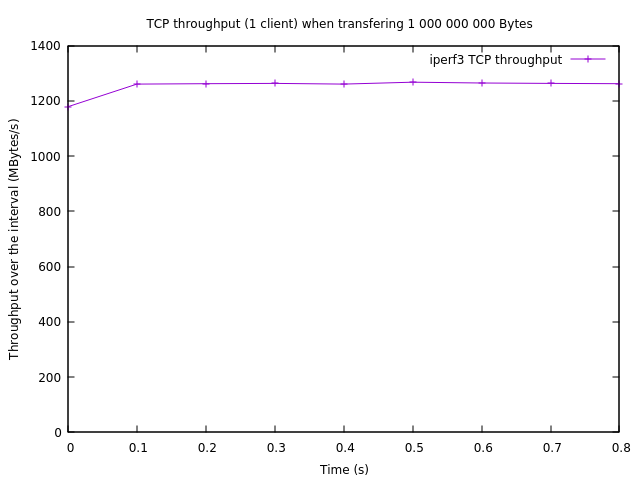
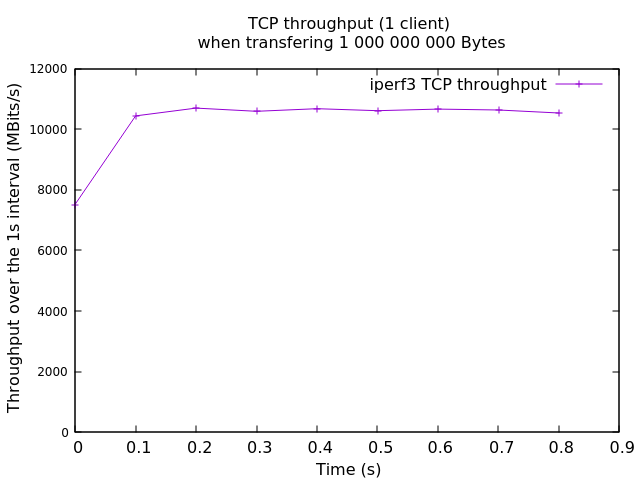
TCP throughput

diff --git a/diss.tex b/diss.tex
@@ -1900,15 +1900,15 @@ In addition, here 1~Gbyte = 1000~MBytes = 1~000~000~KBytes = 1~000~000~000~Bytes
 \begin{table}[H]
 \begin{tabular}{|r|r|r|r|r|r|}
 \hline
-\multicolumn{1}{|c|}{\begin{tabular}[c]{@{}c@{}}Requested \\ file size \\ (MBytes)\end{tabular}} & \multicolumn{1}{c|}{\begin{tabular}[c]{@{}c@{}}Number of \\ parallel \\ clients \\ (1 request \\ per client)\end{tabular}} & \multicolumn{1}{c|}{\begin{tabular}[c]{@{}c@{}}Average\\ total \\ throughput \\ measured \\ on the \\ receiver's \\ side (MBit/s)\end{tabular}} & \multicolumn{1}{c|}{\begin{tabular}[c]{@{}c@{}}Standard \\ deviation \\ of the \\ throughput \\ sample \\ (MBit/s)\end{tabular}} & \multicolumn{1}{c|}{\begin{tabular}[c]{@{}c@{}}Average \\ total \\ completion \\ time (ms)\end{tabular}} & \multicolumn{1}{c|}{\begin{tabular}[c]{@{}c@{}}Standard \\ deviation \\ of the\\ completion \\ time \\ sample (ms)\end{tabular}} \\ \hline
-1                                                                                                & 1                                                                                                                          & 2524.38                                                                                                                                         & 874.14                                                                                                                           & 2.53                                                                                                     & 1.16                                                                                                                             \\ \hline
-1                                                                                                & 10                                                                                                                         & 3128.63                                                                                                                                         & 242.04                                                                                                                           & 1.97                                                                                                     & 0.20                                                                                                                             \\ \hline
-10                                                                                               & 1                                                                                                                          & 3444.30                                                                                                                                         & 1571.61                                                                                                                         & 25.19                                                                                                    & 11.12                                                                                                                            \\ \hline
-10                                                                                               & 10                                                                                                                         & 7032.84                                                                                                                                         & 380.54                                                                                                                           & 12.49                                                                                                    & 0.95                                                                                                                             \\ \hline
-100                                                                                              & 1                                                                                                                          & 7609.97                                                                                                                                         & 908.55                                                                                                                           & 102.18                                                                                                   & 12.68                                                                                                                            \\ \hline
-100                                                                                              & 10                                                                                                                         & 8679.42                                                                                                                                         & 150.11                                                                                                                           & 92.53                                                                                                    & 1.46                                                                                                                             \\ \hline
-1000                                                                                             & 1                                                                                                                          & 9284.86                                                                                                                                         & 51.46                                                                                                                            & 856.53                                                                                                   & 5.05                                                                                                                             \\ \hline
-1000                                                                                             & 10                                                                                                                         & 9355.52                                                                                                                                         & 24.28                                                                                                                            & 855.32                                                                                                   & 2.05                                                                                                                             \\ \hline
+\multicolumn{1}{|c|}{\begin{tabular}[c]{@{}c@{}}Requested\\ file size \\ (Mbytes)\end{tabular}} & \multicolumn{1}{c|}{\begin{tabular}[c]{@{}c@{}}Number of\\ parallel \\ clients\\ (1 request\\ per client)\end{tabular}} & \multicolumn{1}{c|}{\begin{tabular}[c]{@{}c@{}}Average\\ total\\ throughput\\ measured\\ on the\\ receiver's\\ side (Mbit/s)\end{tabular}} & \multicolumn{1}{c|}{\begin{tabular}[c]{@{}c@{}}Standard \\ deviation\\ of the\\ throughput\\ sample\\ \\ side (Mbit/s)\end{tabular}} & \multicolumn{1}{c|}{\begin{tabular}[c]{@{}c@{}}Average\\ total\\ completion\\ time (ms)\end{tabular}} & \multicolumn{1}{c|}{\begin{tabular}[c]{@{}c@{}}Standard \\ deviation\\ of thecompletion\\ timesample\\ side (Mbit/s)\end{tabular}} \\ \hline
+1                                                                                               & 1                                                                                                                       & 2245.32                                                                                                                                    & 300.09                                                                                                                               & 2.45                                                                                                  & 0.26                                                                                                                               \\ \hline
+1                                                                                               & 10                                                                                                                      & 3376.85                                                                                                                                    & 192.65                                                                                                                               & 1.94                                                                                                  & 0.28                                                                                                                               \\ \hline
+10                                                                                              & 1                                                                                                                       & 4220.89                                                                                                                                    & 1364.76                                                                                                                              & 19.55                                                                                                 & 10.02                                                                                                                              \\ \hline
+10                                                                                              & 10                                                                                                                      & 7083.99                                                                                                                                    & 383.66                                                                                                                               & 12.76                                                                                                 & 0.76                                                                                                                               \\ \hline
+100                                                                                             & 1                                                                                                                       & 7391.08                                                                                                                                    & 1137.97                                                                                                                              & 108.94                                                                                                & 19.14                                                                                                                              \\ \hline
+100                                                                                             & 10                                                                                                                      & 8865.56                                                                                                                                    & 114.44                                                                                                                               & 90.53                                                                                                 & 1.18                                                                                                                               \\ \hline
+1000                                                                                            & 1                                                                                                                       & 8972.90                                                                                                                                    & 390.40                                                                                                                               & 892.71                                                                                                & 39.87                                                                                                                              \\ \hline
+1000                                                                                            & 10                                                                                                                      & 8972.47                                                                                                                                    & 443.07                                                                                                                               & 892.33                                                                                                & 44.76                                                                                                                              \\ \hline
 \end{tabular}
     \centering
     \caption[Impact of parallel streams for \texttt{TCP} throughput]{Impact of parallel streams for \texttt{TCP} throughput. Here packets travel via an intermediate machine.}
@@ -1921,22 +1921,17 @@ In addition, here 1~Gbyte = 1000~MBytes = 1~000~000~KBytes = 1~000~000~000~Bytes
 Table~\ref{fig:TCP_throughput_via_B_using_parallel_streams} shows the effect of increased transferred file size for the throughput of \texttt{TCP}.
 Naturally, it takes less time to transfer a small file than the large one.
 However, this means that \texttt{TCP} spends most of the time in the \enquote{slow start} phase when sending small files because their transfer time is shorter than the duration of the \enquote{slow start}.
-As a result, \texttt{TCP}'s throughput when sending small files is low.
-In contrast, transferring larger files allows \texttt{TCP} to discover the maximum sustainable network capacity.
-Thus, the \texttt{TCP} throughput is noticeably larger when sending larger files. 
-In addition, the transfer of large files allows \texttt{TCP} to amortise the overhead of initial \texttt{TCP} handshake.
-Hence, when sending 1GByte of data, \texttt{TCP} was able to approach the maximum link capacity that was 10~Gbits/s.
-
+As a result, reported \texttt{TCP}'s throughput when sending small files was low.
+In contrast, transferring larger files allowed \texttt{TCP} to discover the maximum sustainable network capacity and thus increase the total throughput.
+In addition, the transfer of large files allowed \texttt{TCP} to amortise the overhead of initial \texttt{TCP} handshake.
+Hence, when sending 1~GByte of data, \texttt{TCP} was able to approach the maximum link capacity that was 10~Gbits/s.
 
 \enquote{Slow start} effect is partially visible in Figure~\ref{fig:TCP_throughput_in_time} that illustrates \texttt{TCP} throughput in time.
-
-
-\simon{First 4 rows of the table - there are 4 different experiments with different throughputs (differ by at least the factor of 2), and the average completion time of all of them was around 10ms. Hence, this example demonstrates that iperf3 does not have sufficient resolution to capture and visualise the effect of a slow start. }
+However, resolution of this diagram is limited by the \texttt{iperf3} resolution, which is 0.1 s.
 
 % TODO
 \simon{TODO: comparison of TCP vs UDP}
 
-\simon{According to https://support.cumulusnetworks.com/hc/en-us/articles/216509388-Throughput-Testing-and-Troubleshooting, TCP might have better offloading support than UDP, meaning that their throughputs may not be comparable}
 
     \begin{figure}[H]
     \centering
@@ -1948,7 +1943,7 @@ Hence, when sending 1GByte of data, \texttt{TCP} was able to approach the maximu
     
     
     
-\simon{Why did iperf3 report lower throughput for UDP? According to \url{https://fuchsia.googlesource.com/third_party/iperf/+/3.0.2/README.md}, iperf3 might not be the best tool for high UDP throughput measurements. The source recommends using another tool nuttcp instead }
+%\simon{Why did iperf3 report lower throughput for UDP? According to \url{https://fuchsia.googlesource.com/third_party/iperf/+/3.0.2/README.md}, iperf3 might not be the best tool for high UDP throughput measurements. The source recommends using another tool nuttcp instead }
     
 % SERVER: ip netns exec mr_server nuttcp -S
 % CLIENT: taskset -c 1 ip netns exec mr_client nuttcp  -l1448 -T30 -u -w40m -Ru -i1 10.2.2.101
